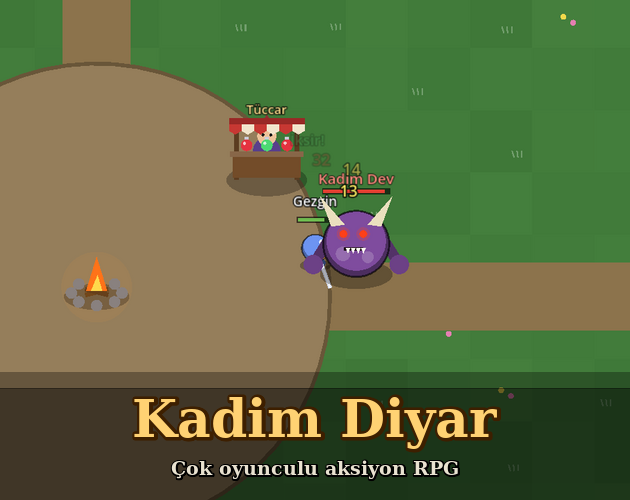
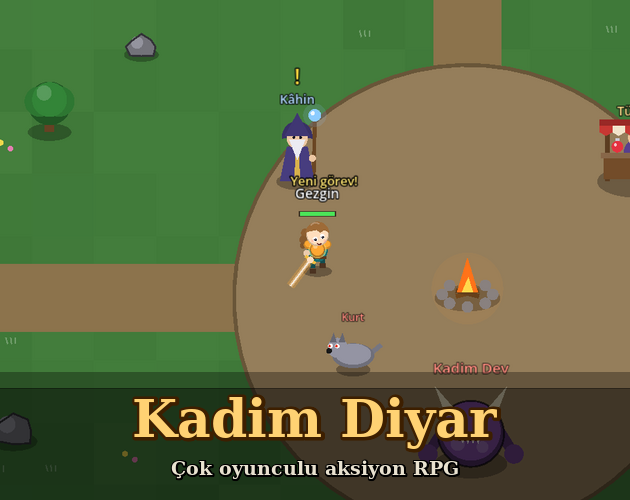
Kadim Diyar Online: tarayıcı sürümü bağlantısı, yeni kapak ve açıklama

diff --git a/js/app.js b/js/app.js
@@ -10,9 +10,9 @@ const GAMES = [
       platforms: ["Windows", "Linux", "Android", "Tarayıcı"],
       play: "https://johntitor08.github.io/mycity-online/", itch: ITCH + "mycity-online", repo: GH + "mycity-online" },
     { title: "Kadim Diyar Online", img: "kadim-diyar-online.png", genre: "RPG", engine: "Godot", badge: "Yeni",
-      desc: "Çok oyunculu aksiyon RPG: arkadaşlarınla canavar avla, seviye atla, altın biriktir, kamptaki tüccardan iksir al ve köşelerde uyanan Kadim Dev'i birlikte devir. İlerlemen resmi sunucuda saklanır.",
-      platforms: ["Windows", "Linux"],
-      itch: ITCH + "kadim-diyar-online", repo: GH + "kadim-diyar-online" },
+      desc: "Çok oyunculu aksiyon RPG: karakterini oluştur, arkadaşlarınla canavar avla, kılıç ve zırh topla, Kâhin'den görev al, Kasırga ve Şifa gibi yetenekler aç, köşelerde uyanan Kadim Dev'i birlikte devir. Tarayıcıda da oynanır; ilerlemen sunucuda saklanır.",
+      platforms: ["Windows", "Linux", "Tarayıcı"],
+      play: ITCH + "kadim-diyar-online-web", itch: ITCH + "kadim-diyar-online", repo: GH + "kadim-diyar-online" },
     { title: "Pil Avı", img: "pil-avi.png", genre: "Platform", engine: "Godot", badge: "Yeni",
       desc: "Robotunla pili kap, şarj istasyonuna ilk sen dön. Her tur önceki turun birincisi Mühendis olur; tahta, balon, yay ve cıvatayla yol açar ya da ortalığı karıştırır. Online, botlarla da oynanır.",
       platforms: ["Tarayıcı"],

diff --git a/index.html b/index.html
@@ -15,7 +15,7 @@
     <link rel="preconnect" href="https://fonts.googleapis.com">
     <link href="https://fonts.googleapis.com/css2?family=Poppins:wght@400;600;700;800&family=Open+Sans:wght@400;600&display=swap" rel="stylesheet">
     <link rel="stylesheet" href="https://cdnjs.cloudflare.com/ajax/libs/font-awesome/6.5.2/css/all.min.css">
-    <link rel="stylesheet" href="style/site.css?v=9">
+    <link rel="stylesheet" href="style/site.css?v=11">
 </head>
 <body>
 
@@ -170,6 +170,6 @@
 
     <a href="#top" class="to-top" id="toTop" aria-label="Başa dön"><i class="fa-solid fa-arrow-up"></i></a>
 
-    <script src="js/app.js?v=10"></script>
+    <script src="js/app.js?v=11"></script>
 </body>
 </html>
